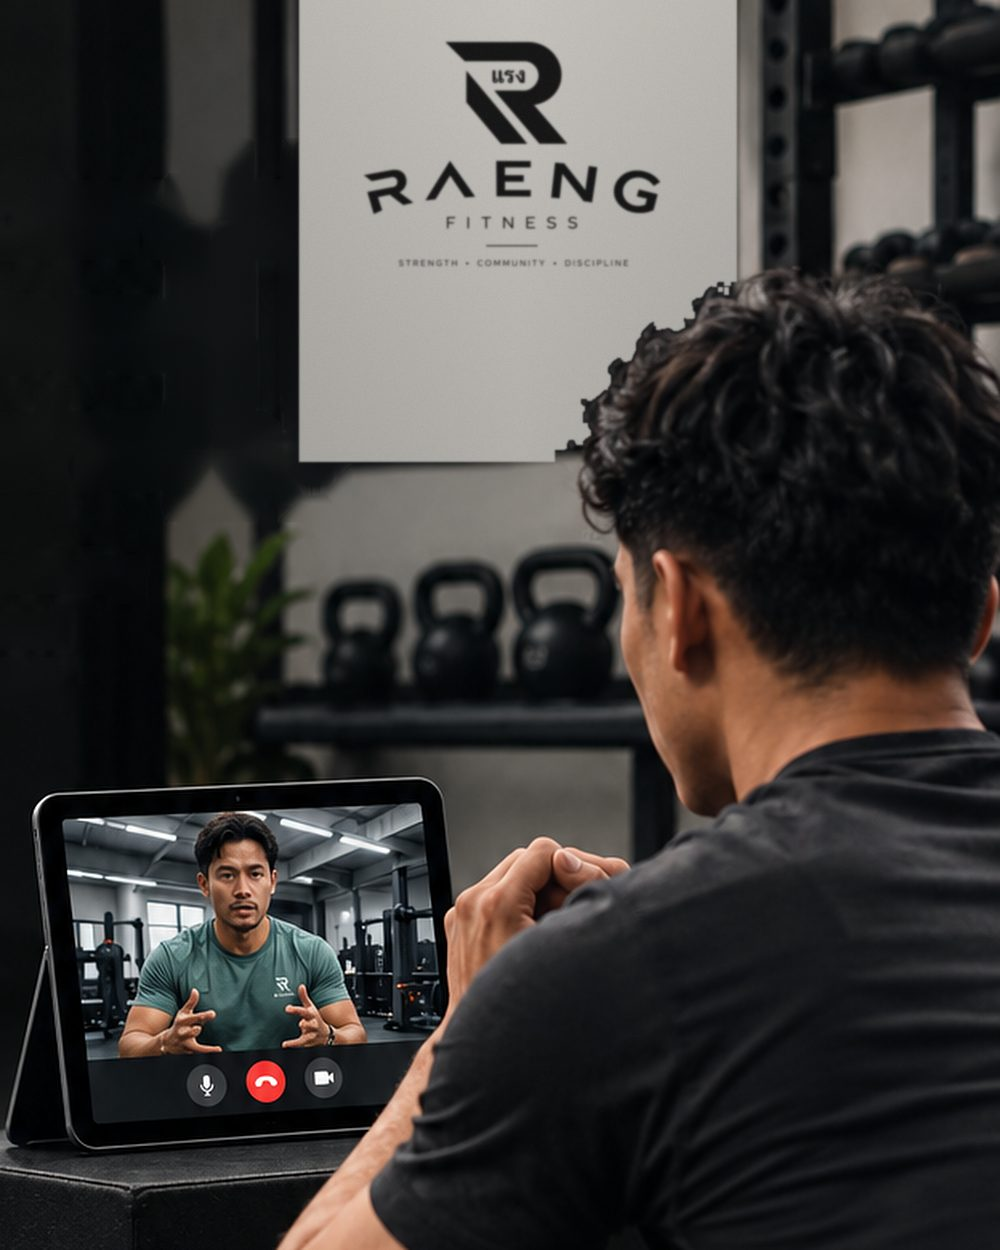
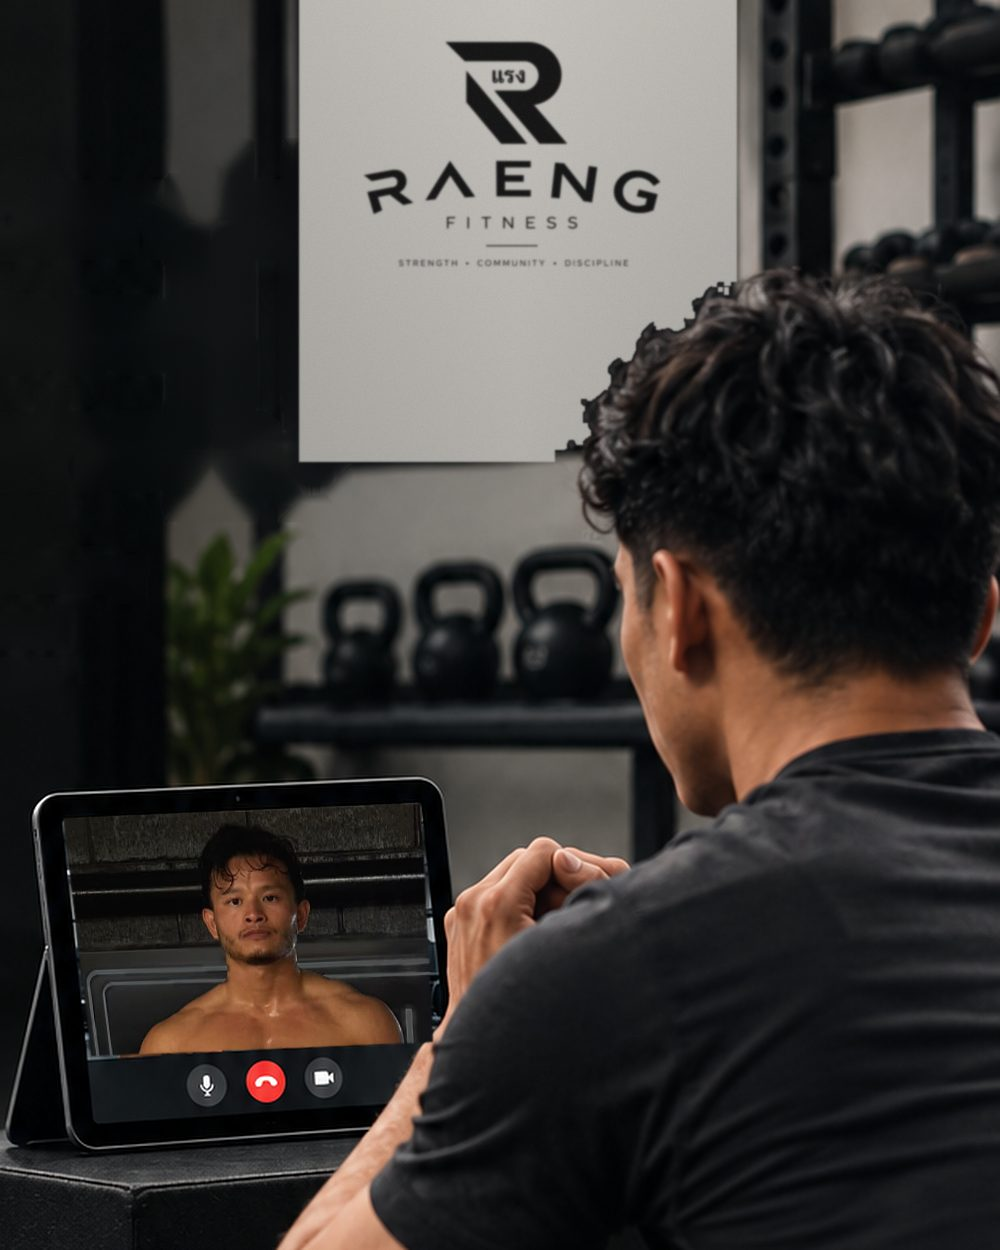
Online coaching image: Alex is the coach on the tablet
Claude-Session: https://claude.ai/code/session_018aBLi7D56S67DJZeRtoumM

Changed region(s): [[0.062, 0.624, 0.434, 0.8424]]

diff --git a/src/content/images.ts b/src/content/images.ts
@@ -66,13 +66,14 @@ export const images = {
    * with his coach on a tablet, a RAENG Fitness banner and kettlebells behind.
    * Cut from an illustrative image the owner supplied, with all its writing
    * removed; the banner carries the real RAENG lockup (public/brand, black on
-   * cream, as the owner sent it 2026-10-27) in place of the image's mock logo. 4:5.
+   * cream, as the owner sent it 2026-10-27) in place of the image's mock logo,
+   * and the coach on the tablet is Alex, from his own photo (owner, 2026-10-27). 4:5.
    */
   onlineCoaching: {
     src: `${dir}/online-coaching-call.jpg`,
     width: 1000,
     height: 1250,
-    alt: "A man on a video call with his coach on a tablet, in front of a RAENG Fitness banner and a rack of kettlebells",
+    alt: "A man on a video call with Alex on a tablet, in front of a RAENG Fitness banner and a rack of kettlebells",
     position: "50% 50%",
   },
   /** "Why kettlebells" (option C, owner 2026-10-23): one photo beside the numbered list. Cropped so no third-party signage shows. */

diff --git a/DESIGN.md b/DESIGN.md
@@ -35,7 +35,7 @@ how to use them.
 - **Card overhaul, option 1 "three steps" (owner, 2026-10-26; supersedes the card notes above and below for these sections):** goal is less scrolling and getting people booked, with the same information and Alex's order. Under the hero, **Coached by** is a slim line (40 px photo, name, role, Meet Alex), not a card. The classes section is titled **"Start in three steps."** under a "Classes" label (owner, 2026-10-26: cleaner than "3 classes a week."; the count is in the rows): **1 Pick a class** (length and level, then the times as rows between thin rules), **2 Book your place** (price, and "New? Say so when you book…"), **3 Turn up and train** (address, Get directions, what happens at the first session, what to bring), then Book now (`JoinSteps`). **On the home page the three steps swipe** (owner, 2026-10-26): below `lg` each step is an outlined slide, 85% of the screen wide (the next one peeks in), number above the title, all slides one height, with Book now at the bottom of "Book your place"; from `lg` they stack with Book now below. /classes keeps the stacked steps. The separate "Your first class" section and the address card are gone from home; the step lines restate the confirmed FAQ answers (`firstClassSteps` in content/home.ts) and each shows only while its FAQ answer is confirmed. **More ways to train** is two rows between thin rules (name and price, then what it is and Explore). **Why kettlebells** is a two-by-two grid of plain text, no cards or numbers (also on /about). The timetable rows (`ClassTimes`) are shared with /classes. **Memberships** follow the same rows (2026-10-26): each plan shows its rules as in Alex's plan layout — name and price, "N class credits", "£X per class · Save £Y", "Pay-as-you-go equivalent £Z" ("every 4 weeks" is said once, in the intro) (all calculated from price and credits); the chosen row turns ink; the four terms under the list sit under a "Membership rules" label. The closing Book now band on home has no class-times line (the times are at the top). **Fewer repeats (owner, 2026-10-26):** each fact is said once on home — the class days only in the timetable (the rule reads "One credit books any one class."), membership figures only in the plans (step 2 says "£12 a class, or save with a membership."), Alex's role only in Meet your coach (Coached by shows his name), Instagram only in Meet your coach (the closing band has Book now alone), "scaled to you" once. Phone home page 6,464 → about 5,400 px.
 - **Towards 100 (owner, 2026-10-27):** one panel style everywhere: `card` is now a thin grey outline on the cream page (no white fill), the same edge as the home swipe slides; booking and join choice tiles, time slots and bookable calendar dates are outlined (ink when chosen; unavailable ones dashed); dividers inside panels are grey lines; the "booking isn't open" fallback is an outlined panel, not a black block. White fill is kept only for text fields, and ink only for chosen states, buttons and the "request sent" confirmation. Plan rows are two lines: "4 class credits · £10 per class", then just "Save £8" (owner, 2026-10-27: "Save £8 on £48 pay as you go" read oddly; the intro already says it is against pay as you go; the join page shows "· Save £8" the same way). Meet your coach links Instagram only (follower count and Facebook are in the footer and on /contact). Phone text that was 14 px is 15 px (steps, plan rows, rules, More ways, Why kettlebells). The "Coached by" line stays (owner's request to show Alex early).
 - **Audit fixes (owner, 2026-10-27):** the **hero** uses the site's own style (supersedes "keep the production hero"): "Get stronger." in the display face, sentence case; "Kettlebell classes in Cumbernauld" as a spaced-capital label; a white round Book now and an underlined "Explore coaching"; no side rule or glow, a soft ink text shadow (`hero-shadow`) for legibility; same film and layout. /contact's FAQ shows only what isn't answered elsewhere (online coaching, one-to-one, how to contact). Section padding `py-12 sm:py-20 lg:py-24` (was `sm:py-24 lg:py-32`); plan details, membership rules, More ways rows and Why kettlebells lines are 16 px from `lg`; the Coached by line is a little larger from `lg`. /about shows Alex's story without the before-and-after (`CoachStory showPhotos={false}`): the photos are on the home page only.
-- **Online coaching header image (owner, 2026-10-27):** the progression-line graphic is replaced by a still: a client on a video call with his coach on a tablet, RAENG Fitness banner and kettlebells behind (`images.onlineCoaching`), cut from the owner's illustrative image with all its writing removed; the banner shows the real RAENG lockup, black on cream (the image's own logo was a wrong mock-up); 4:5 at every width so the banner and the call both show.
+- **Online coaching header image (owner, 2026-10-27):** the progression-line graphic is replaced by a still: a client on a video call with his coach on a tablet, RAENG Fitness banner and kettlebells behind (`images.onlineCoaching`), cut from the owner's illustrative image with all its writing removed; the banner shows the real RAENG lockup, black on cream (the image's own logo was a wrong mock-up), and Alex (from his own photo) is the coach on the tablet; 4:5 at every width so the banner and the call both show.
 - **Online coaching pricing tidied (owner, 2026-10-27):** one price, so the section is the price as its heading ("£79 per month.", from content) with "Enquire about online coaching" as a link beside it on desktop, under it on phones. Replaces "Simple monthly coaching." over a "Monthly … £79 per month" row.
 - **Home order fixed (owner, 2026-10-27, final; overrides the audit's "Alex's order" fix and Alex's stated order):** hero, Coached by, Why kettlebells, Meet your coach, classes, memberships, more ways to train, Book now. Recorded as an owner rule in AGENTS.md so future audits don't reorder it.
 - **Why kettlebells as a kettlebell (owner, 2026-10-27):** the 2×2 grid sits inside a kettlebell drawn in the 1.5 px ink line: a line handle (two arches, SVG) on a round bell (elliptical corners), the grey rules inside, extra padding so no words touch the curve. 30rem wide at most (28rem from lg, so it stays round).
